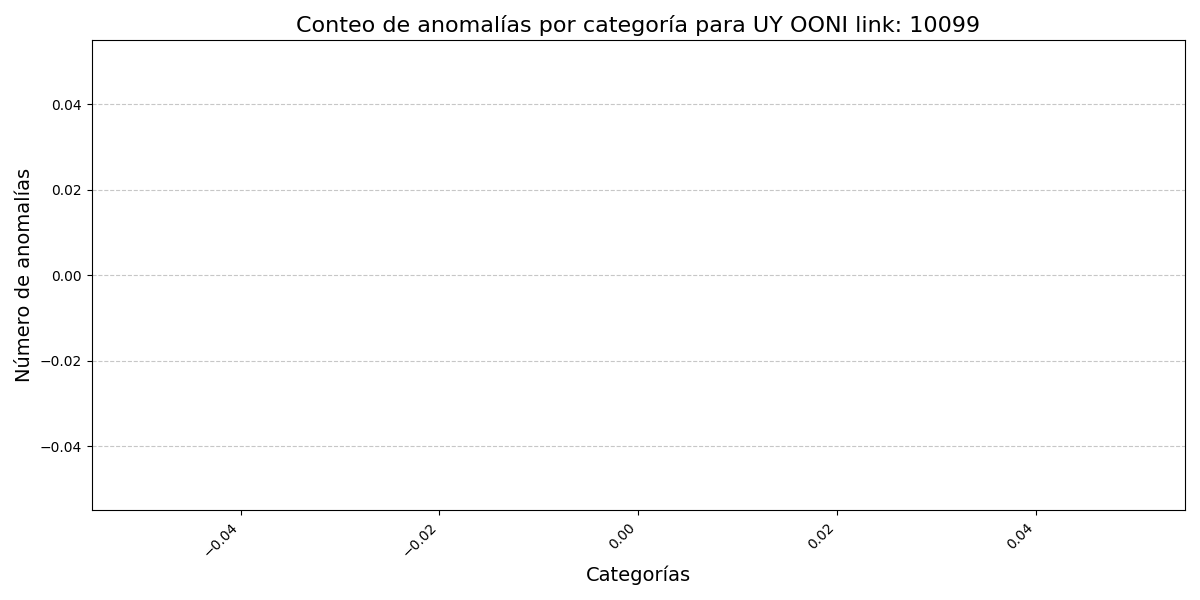
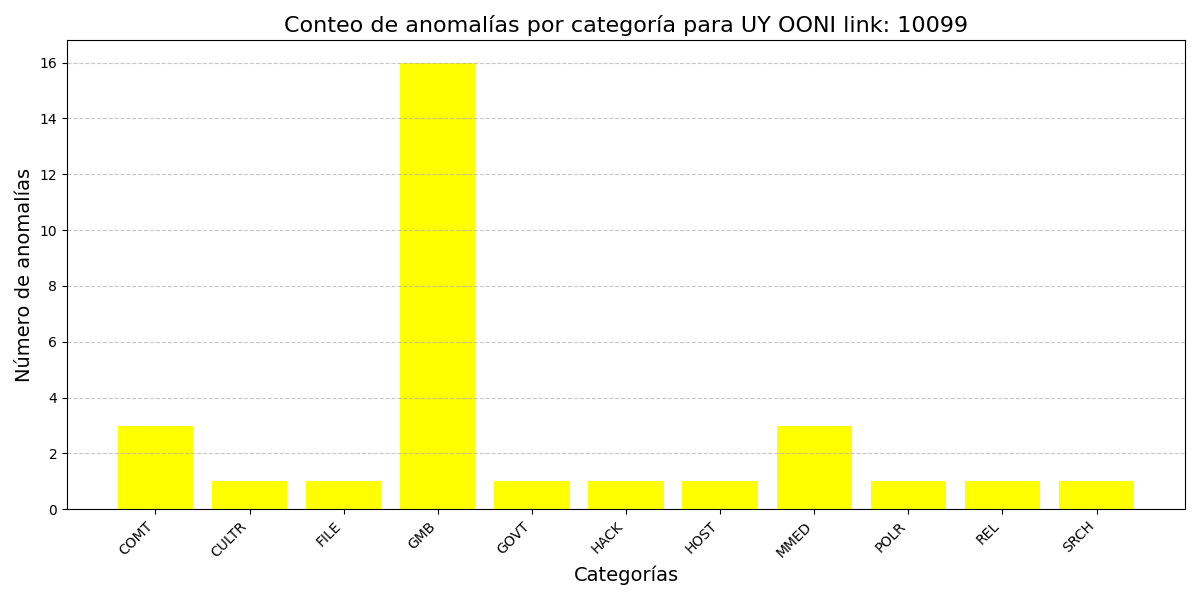
graficos

diff --git a/Clases/Facade.py b/Clases/Facade.py
@@ -92,7 +92,7 @@ def crearOnniRunLink_partiendo_de_historica():
 
 def graficar():
     for pais in diccionarioPaises_ooni_actualizada:
-        generar_graficos(pais, "2024-01-01", "2024-12-31", "month", "category_code", "web_connectivity")
+        generar_graficos(pais, "2016-01-01", "2024-12-31", "month", "category_code", "web_connectivity")
         generar_graficos(pais, "2024-01-01", "2024-12-31", "month", "category_code", "web_connectivity", diccionarioPaises_ooni_historica[pais])
         generar_graficos(pais, "2024-01-01", "2024-12-31", "month", "category_code", "web_connectivity", diccionarioPaises_ooni_actualizada[pais])
         

diff --git a/main.py b/main.py
@@ -13,8 +13,8 @@ OBTIENE LOS DATOS DE OONI Y LOS GUARDA EN UNA LISTA PERSONALIZADA HISTORICA
 ES INDEPOTENTE, PUEDE EJECUTARSE CUANTAS VECES SEA NECESARIO.
 OBTIENE LOS DATOS DE LA LISTA PERSONALIZADA HISTORICA Y LOS GUARDA EN UNA LISTA PERSONALIZADA ACTUALIZADA
 """
-#extraer_datos_listaHistorica()
-#crearOnniRunLink_partiendo_de_historica()
+extraer_datos_listaHistorica()
+crearOnniRunLink_partiendo_de_historica()
 
 #3 - Graficar
 """ 
